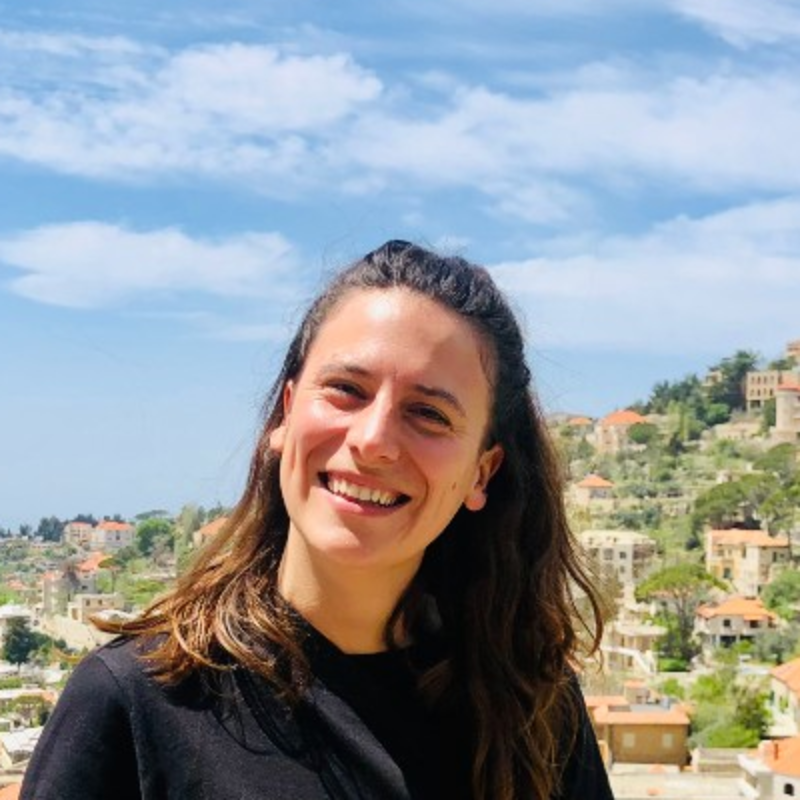
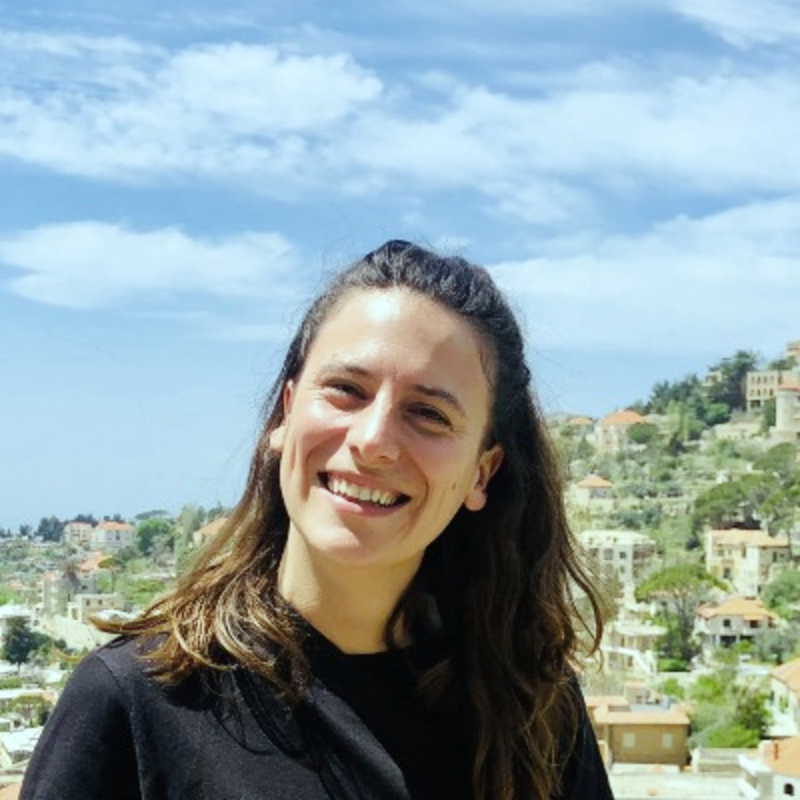
Improve About photo and add basic search-engine metadata
Reduce redness in the sidebar portrait and add canonical URLs,
Person schema markup, robots.txt, and a clearer site description
to help search engines index the site.

diff --git a/layouts/partials/head.html b/layouts/partials/head.html
@@ -1,0 +1,20 @@
+<head>
+  {{ partial "meta.html" . }}
+  {{ partial "seo.html" . }}
+  {{ template "_internal/schema.html" . }}
+  {{ template "_internal/google_analytics.html" . }}
+  {{ `<!--[if IE]><script src="//html5shiv.googlecode.com/svn/trunk/html5.js"></script><![endif]-->` | safeHTML }}
+  <link rel="shortcut icon" href="{{ .Site.Params.favicon }}" type="image/x-icon">
+  <link rel="icon" href="{{ .Site.Params.favicon }}" type="image/x-icon">
+  {{ range .AlternativeOutputFormats }}
+    {{ printf `<link rel="%s" type="%s" href="%s" title="%s" />` .Rel .MediaType.Type .Permalink $.Site.Title | safeHTML }}
+  {{ end }}
+  {{ $styles := resources.Get "scaffold.scss" | resources.ExecuteAsTemplate "style.main.scss" . | toCSS | minify | fingerprint }}
+  <link rel="stylesheet" href="{{ $styles.RelPermalink }}" integrity="{{ $styles.Data.Integrity }}" media="screen">
+  <!-- panelset.js -->
+  {{ $panelsetJs := resources.Get "js/panelset.js" | js.Build "panelset.js" | minify | fingerprint }}
+  <script src="{{ $panelsetJs.RelPermalink }}" type="text/javascript"></script>
+  <!-- headroom.js -->
+  {{ $mainJs := resources.Get "js/main.js" | js.Build "main.js" | minify | fingerprint }}
+  <script src="{{ $mainJs.RelPermalink }}" type="text/javascript"></script>
+</head>

diff --git a/layouts/partials/seo.html b/layouts/partials/seo.html
@@ -1,0 +1,34 @@
+{{ $sameAs := slice }}
+{{ range site.Params.social }}
+  {{ if and .url (ne .icon "envelope") }}
+    {{ $sameAs = $sameAs | append .url }}
+  {{ end }}
+{{ end }}
+
+<link rel="canonical" href="{{ .Permalink }}">
+<meta name="author" content="{{ site.Params.author | default site.Title }}">
+<script type="application/ld+json">
+{
+  "@context": "https://schema.org",
+  "@type": "Person",
+  "name": "Rebecca Pabst",
+  "url": "https://rebeccapabst.vercel.app/",
+  "jobTitle": "Researcher in spatial ecology, invasive mosquito vectors, and disease risk",
+  "description": "Rebecca Pabst, researcher in spatial ecology, invasive mosquito vectors, and disease risk at IHMT NOVA, Lisbon.",
+  "worksFor": {
+    "@type": "Organization",
+    "name": "Institute of Hygiene and Tropical Medicine, NOVA University Lisbon"
+  },
+  "address": {
+    "@type": "PostalAddress",
+    "addressLocality": "Lisbon",
+    "addressCountry": "PT"
+  },
+  "sameAs": [
+    {{- range $i, $url := $sameAs -}}
+      {{- if $i }},{{ end -}}
+      {{ printf "%q" $url | safeJS }}
+    {{- end -}}
+  ]
+}
+</script>
